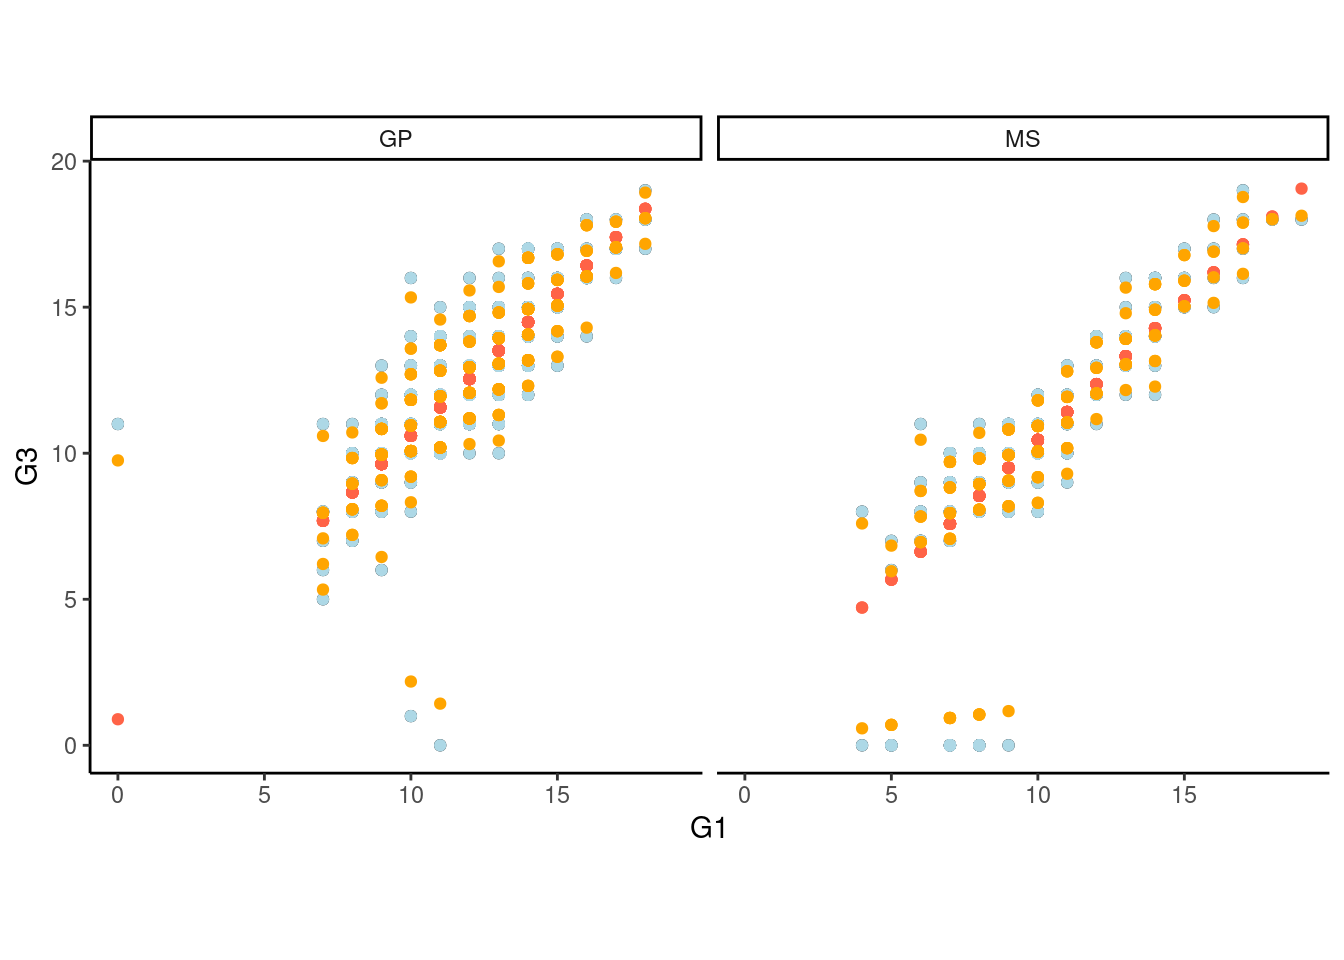
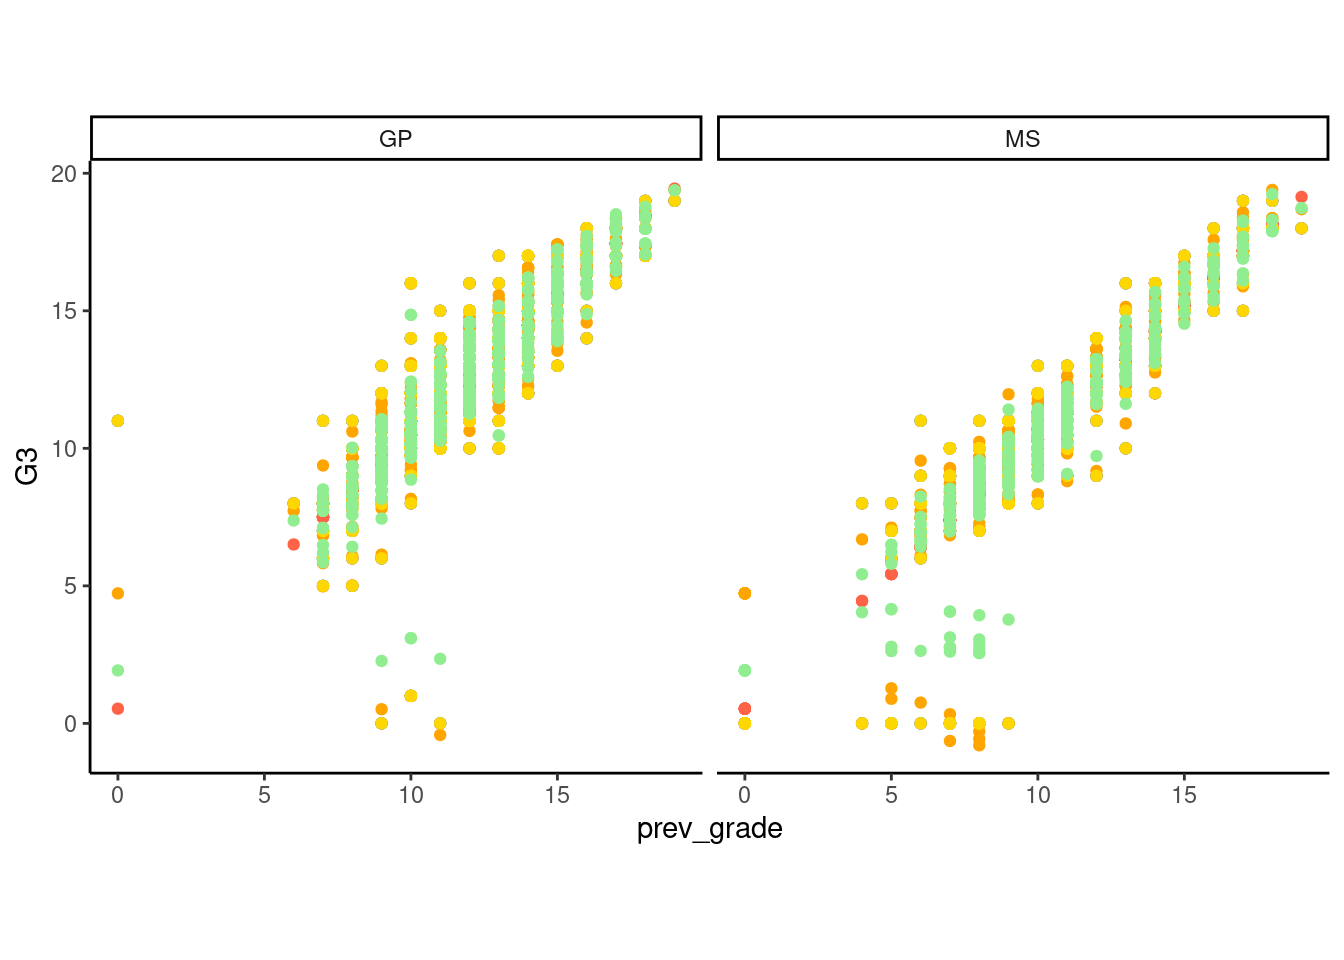
day 28

diff --git a/classes/day28_10252024.html b/classes/day28_10252024.html
@@ -135,11 +135,12 @@ pre > code.sourceCode > span > a:first-child::before { text-decoration: underlin
 </div>
 <div class="cell">
 <div class="sourceCode cell-code" id="cb3"><pre class="sourceCode r code-with-copy"><code class="sourceCode r"><span id="cb3-1"><a href="#cb3-1" aria-hidden="true" tabindex="-1"></a>dd <span class="ot">&lt;-</span> <span class="fu">read.csv</span>(<span class="st">"data/student-por.csv"</span>) <span class="sc">%&gt;%</span> </span>
-<span id="cb3-2"><a href="#cb3-2" aria-hidden="true" tabindex="-1"></a>  <span class="fu">rownames_to_column</span>(<span class="st">"student_ID"</span>)</span></code><button title="Copy to Clipboard" class="code-copy-button"><i class="bi"></i></button></pre></div>
+<span id="cb3-2"><a href="#cb3-2" aria-hidden="true" tabindex="-1"></a>  <span class="fu">rownames_to_column</span>(<span class="st">"student_ID"</span>) <span class="sc">%&gt;%</span> </span>
+<span id="cb3-3"><a href="#cb3-3" aria-hidden="true" tabindex="-1"></a>  <span class="fu">pivot_longer</span>(<span class="at">cols =</span> <span class="fu">c</span>(G1, G2), <span class="at">values_to =</span> <span class="st">"prev_grade"</span>, <span class="at">names_to =</span> <span class="st">"term"</span>)</span></code><button title="Copy to Clipboard" class="code-copy-button"><i class="bi"></i></button></pre></div>
 </div>
 <div class="cell">
 <div class="sourceCode cell-code" id="cb4"><pre class="sourceCode r code-with-copy"><code class="sourceCode r"><span id="cb4-1"><a href="#cb4-1" aria-hidden="true" tabindex="-1"></a>dd <span class="sc">%&gt;%</span> </span>
-<span id="cb4-2"><a href="#cb4-2" aria-hidden="true" tabindex="-1"></a>  <span class="fu">ggplot</span>(<span class="fu">aes</span>(G1, G3))<span class="sc">+</span></span>
+<span id="cb4-2"><a href="#cb4-2" aria-hidden="true" tabindex="-1"></a>  <span class="fu">ggplot</span>(<span class="fu">aes</span>(prev_grade, G3))<span class="sc">+</span></span>
 <span id="cb4-3"><a href="#cb4-3" aria-hidden="true" tabindex="-1"></a>  <span class="fu">geom_point</span>()<span class="sc">+</span></span>
 <span id="cb4-4"><a href="#cb4-4" aria-hidden="true" tabindex="-1"></a>  <span class="fu">facet_wrap</span>(<span class="sc">~</span>school)</span></code><button title="Copy to Clipboard" class="code-copy-button"><i class="bi"></i></button></pre></div>
 <div class="cell-output-display">
@@ -150,8 +151,8 @@ pre > code.sourceCode > span > a:first-child::before { text-decoration: underlin
 <div class="sourceCode cell-code" id="cb5"><pre class="sourceCode r code-with-copy"><code class="sourceCode r"><span id="cb5-1"><a href="#cb5-1" aria-hidden="true" tabindex="-1"></a><span class="fu">library</span>(nlme)</span></code><button title="Copy to Clipboard" class="code-copy-button"><i class="bi"></i></button></pre></div>
 </div>
 <div class="cell">
-<div class="sourceCode cell-code" id="cb6"><pre class="sourceCode r code-with-copy"><code class="sourceCode r"><span id="cb6-1"><a href="#cb6-1" aria-hidden="true" tabindex="-1"></a>m1 <span class="ot">&lt;-</span> <span class="fu">lm</span>(G3 <span class="sc">~</span> G1 <span class="sc">:</span> school, <span class="at">data =</span> dd)</span>
-<span id="cb6-2"><a href="#cb6-2" aria-hidden="true" tabindex="-1"></a>m2 <span class="ot">&lt;-</span> <span class="fu">lm</span>(G3 <span class="sc">~</span> G1 <span class="sc">:</span> school <span class="sc">+</span> student_ID , <span class="at">data =</span> dd)</span>
+<div class="sourceCode cell-code" id="cb6"><pre class="sourceCode r code-with-copy"><code class="sourceCode r"><span id="cb6-1"><a href="#cb6-1" aria-hidden="true" tabindex="-1"></a>m1 <span class="ot">&lt;-</span> <span class="fu">lm</span>(G3 <span class="sc">~</span> prev_grade <span class="sc">:</span> school, <span class="at">data =</span> dd)</span>
+<span id="cb6-2"><a href="#cb6-2" aria-hidden="true" tabindex="-1"></a>m2 <span class="ot">&lt;-</span> <span class="fu">lm</span>(G3 <span class="sc">~</span> prev_grade <span class="sc">:</span> school <span class="sc">+</span> student_ID , <span class="at">data =</span> dd)</span>
 <span id="cb6-3"><a href="#cb6-3" aria-hidden="true" tabindex="-1"></a><span class="fu">coef</span>(m2)[<span class="dv">1</span><span class="sc">:</span><span class="dv">10</span>]</span></code><button title="Copy to Clipboard" class="code-copy-button"><i class="bi"></i></button></pre></div>
 <div class="cell-output cell-output-stdout">
 <pre><code>  (Intercept)  student_ID10 student_ID100 student_ID101 student_ID102 
@@ -159,59 +160,62 @@ pre > code.sourceCode > span > a:first-child::before { text-decoration: underlin
 student_ID103 student_ID104 student_ID105 student_ID106 student_ID107 
             1            -1             5            -1            -1 </code></pre>
 </div>
-<div class="sourceCode cell-code" id="cb8"><pre class="sourceCode r code-with-copy"><code class="sourceCode r"><span id="cb8-1"><a href="#cb8-1" aria-hidden="true" tabindex="-1"></a>m3 <span class="ot">&lt;-</span> <span class="fu">lme</span>(G3 <span class="sc">~</span> G1 <span class="sc">:</span> school, <span class="at">random =</span> <span class="sc">~</span> <span class="dv">1</span><span class="sc">|</span>student_ID, <span class="at">data =</span> dd)</span>
-<span id="cb8-2"><a href="#cb8-2" aria-hidden="true" tabindex="-1"></a>m3</span></code><button title="Copy to Clipboard" class="code-copy-button"><i class="bi"></i></button></pre></div>
+<div class="sourceCode cell-code" id="cb8"><pre class="sourceCode r code-with-copy"><code class="sourceCode r"><span id="cb8-1"><a href="#cb8-1" aria-hidden="true" tabindex="-1"></a>m3 <span class="ot">&lt;-</span> <span class="fu">lm</span>(G3 <span class="sc">~</span> prev_grade <span class="sc">:</span> school <span class="sc">:</span> student_ID , <span class="at">data =</span> dd)</span>
+<span id="cb8-2"><a href="#cb8-2" aria-hidden="true" tabindex="-1"></a>m4 <span class="ot">&lt;-</span> <span class="fu">lme</span>(G3 <span class="sc">~</span> prev_grade <span class="sc">:</span> school, <span class="at">random =</span> <span class="sc">~</span> <span class="dv">1</span><span class="sc">|</span>student_ID, <span class="at">data =</span> dd)</span>
+<span id="cb8-3"><a href="#cb8-3" aria-hidden="true" tabindex="-1"></a>m4</span></code><button title="Copy to Clipboard" class="code-copy-button"><i class="bi"></i></button></pre></div>
 <div class="cell-output cell-output-stdout">
 <pre><code>Linear mixed-effects model fit by REML
   Data: dd 
-  Log-restricted-likelihood: -1315.996
-  Fixed: G3 ~ G1:school 
-(Intercept) G1:schoolGP G1:schoolMS 
-  0.8921246   0.9708224   0.9561604 
+  Log-restricted-likelihood: 19270.31
+  Fixed: G3 ~ prev_grade:school 
+        (Intercept) prev_grade:schoolGP prev_grade:schoolMS 
+       1.070155e+01        1.404539e-17        5.450246e-17 
 
 Random effects:
  Formula: ~1 | student_ID
-        (Intercept) Residual
-StdDev:    1.704493 0.639185
+        (Intercept)     Residual
+StdDev:    3.447576 1.367618e-15
 
-Number of Observations: 649
+Number of Observations: 1298
+Number of Groups: 649 </code></pre>
+</div>
+<div class="sourceCode cell-code" id="cb10"><pre class="sourceCode r code-with-copy"><code class="sourceCode r"><span id="cb10-1"><a href="#cb10-1" aria-hidden="true" tabindex="-1"></a>m5 <span class="ot">&lt;-</span> <span class="fu">lme</span>(G3 <span class="sc">~</span> prev_grade <span class="sc">:</span> school, <span class="at">random =</span> <span class="sc">~</span> <span class="dv">0</span><span class="sc">+</span>prev_grade<span class="sc">|</span>student_ID, <span class="at">data =</span> dd)</span>
+<span id="cb10-2"><a href="#cb10-2" aria-hidden="true" tabindex="-1"></a>m5</span></code><button title="Copy to Clipboard" class="code-copy-button"><i class="bi"></i></button></pre></div>
+<div class="cell-output cell-output-stdout">
+<pre><code>Linear mixed-effects model fit by REML
+  Data: dd 
+  Log-restricted-likelihood: -2422.346
+  Fixed: G3 ~ prev_grade:school 
+        (Intercept) prev_grade:schoolGP prev_grade:schoolMS 
+          1.9256970           0.8765583           0.8206894 
+
+Random effects:
+ Formula: ~0 + prev_grade | student_ID
+        prev_grade Residual
+StdDev:  0.1358343 1.009312
+
+Number of Observations: 1298
 Number of Groups: 649 </code></pre>
 </div>
 </div>
 <div class="cell">
-<div class="sourceCode cell-code" id="cb10"><pre class="sourceCode r code-with-copy"><code class="sourceCode r"><span id="cb10-1"><a href="#cb10-1" aria-hidden="true" tabindex="-1"></a>dd_predict <span class="ot">&lt;-</span> <span class="fu">expand.grid</span>(<span class="at">G1 =</span> <span class="fu">min</span>(dd<span class="sc">$</span>G1)<span class="sc">:</span><span class="fu">max</span>(dd<span class="sc">$</span>G1), </span>
-<span id="cb10-2"><a href="#cb10-2" aria-hidden="true" tabindex="-1"></a>                          <span class="at">school =</span> <span class="fu">unique</span>(dd<span class="sc">$</span>school), </span>
-<span id="cb10-3"><a href="#cb10-3" aria-hidden="true" tabindex="-1"></a>                          <span class="at">sex =</span> <span class="fu">unique</span>(dd<span class="sc">$</span>sex), </span>
-<span id="cb10-4"><a href="#cb10-4" aria-hidden="true" tabindex="-1"></a>                          <span class="at">student_ID =</span> <span class="fu">unique</span>(dd<span class="sc">$</span>student_ID))</span>
-<span id="cb10-5"><a href="#cb10-5" aria-hidden="true" tabindex="-1"></a>dd_predict<span class="sc">$</span>p1 <span class="ot">&lt;-</span> <span class="fu">predict</span>(m1, dd_predict)</span>
-<span id="cb10-6"><a href="#cb10-6" aria-hidden="true" tabindex="-1"></a>dd_predict<span class="sc">$</span>p2 <span class="ot">&lt;-</span> <span class="fu">predict</span>(m2, dd_predict)</span></code><button title="Copy to Clipboard" class="code-copy-button"><i class="bi"></i></button></pre></div>
-<div class="cell-output cell-output-stderr">
-<pre><code>Warning in predict.lm(m2, dd_predict): prediction from rank-deficient fit;
-attr(*, "non-estim") has doubtful cases</code></pre>
-</div>
-<div class="sourceCode cell-code" id="cb12"><pre class="sourceCode r code-with-copy"><code class="sourceCode r"><span id="cb12-1"><a href="#cb12-1" aria-hidden="true" tabindex="-1"></a>m2<span class="sc">$</span>rank <span class="co"># number of linearly independent rows </span></span></code><button title="Copy to Clipboard" class="code-copy-button"><i class="bi"></i></button></pre></div>
-<div class="cell-output cell-output-stdout">
-<pre><code>[1] 649</code></pre>
-</div>
-<div class="sourceCode cell-code" id="cb14"><pre class="sourceCode r code-with-copy"><code class="sourceCode r"><span id="cb14-1"><a href="#cb14-1" aria-hidden="true" tabindex="-1"></a><span class="fu">length</span>(<span class="fu">coef</span>(m2)) <span class="co"># number of parameters</span></span></code><button title="Copy to Clipboard" class="code-copy-button"><i class="bi"></i></button></pre></div>
-<div class="cell-output cell-output-stdout">
-<pre><code>[1] 651</code></pre>
-</div>
-<div class="sourceCode cell-code" id="cb16"><pre class="sourceCode r code-with-copy"><code class="sourceCode r"><span id="cb16-1"><a href="#cb16-1" aria-hidden="true" tabindex="-1"></a>dd_predict<span class="sc">$</span>p3 <span class="ot">&lt;-</span> <span class="fu">predict</span>(m3, dd_predict)</span></code><button title="Copy to Clipboard" class="code-copy-button"><i class="bi"></i></button></pre></div>
-</div>
-<div class="cell">
-<div class="sourceCode cell-code" id="cb17"><pre class="sourceCode r code-with-copy"><code class="sourceCode r"><span id="cb17-1"><a href="#cb17-1" aria-hidden="true" tabindex="-1"></a>dd<span class="sc">$</span>p1 <span class="ot">&lt;-</span> <span class="fu">predict</span>(m1, dd)</span>
-<span id="cb17-2"><a href="#cb17-2" aria-hidden="true" tabindex="-1"></a>dd<span class="sc">$</span>p2 <span class="ot">&lt;-</span> <span class="fu">predict</span>(m2, dd)</span>
-<span id="cb17-3"><a href="#cb17-3" aria-hidden="true" tabindex="-1"></a>dd<span class="sc">$</span>p3 <span class="ot">&lt;-</span> <span class="fu">predict</span>(m3, dd)</span>
-<span id="cb17-4"><a href="#cb17-4" aria-hidden="true" tabindex="-1"></a>dd <span class="sc">%&gt;%</span></span>
-<span id="cb17-5"><a href="#cb17-5" aria-hidden="true" tabindex="-1"></a>  <span class="fu">ggplot</span>(<span class="fu">aes</span>())<span class="sc">+</span></span>
-<span id="cb17-6"><a href="#cb17-6" aria-hidden="true" tabindex="-1"></a>  <span class="fu">facet_wrap</span>(<span class="sc">~</span>school)<span class="sc">+</span></span>
-<span id="cb17-7"><a href="#cb17-7" aria-hidden="true" tabindex="-1"></a>  <span class="fu">geom_point</span>(<span class="fu">aes</span>(<span class="at">x =</span>G1, <span class="at">y=</span>G3))<span class="sc">+</span></span>
-<span id="cb17-8"><a href="#cb17-8" aria-hidden="true" tabindex="-1"></a>  <span class="fu">geom_point</span>(<span class="fu">aes</span>(<span class="at">x=</span>G1, <span class="at">y=</span>p1), <span class="at">color =</span> <span class="st">'tomato'</span>)<span class="sc">+</span></span>
-<span id="cb17-9"><a href="#cb17-9" aria-hidden="true" tabindex="-1"></a>  <span class="fu">geom_point</span>(<span class="fu">aes</span>(<span class="at">x=</span>G1, <span class="at">y=</span>p2, <span class="at">group =</span> school), <span class="at">color =</span> <span class="st">'lightblue'</span>)<span class="sc">+</span></span>
-<span id="cb17-10"><a href="#cb17-10" aria-hidden="true" tabindex="-1"></a>  <span class="fu">geom_point</span>(<span class="fu">aes</span>(<span class="at">x=</span>G1, <span class="at">y=</span>p3, <span class="at">group =</span> school), <span class="at">color =</span> <span class="st">'orange'</span>)</span></code><button title="Copy to Clipboard" class="code-copy-button"><i class="bi"></i></button></pre></div>
+<div class="sourceCode cell-code" id="cb12"><pre class="sourceCode r code-with-copy"><code class="sourceCode r"><span id="cb12-1"><a href="#cb12-1" aria-hidden="true" tabindex="-1"></a>dd<span class="sc">$</span>p1 <span class="ot">&lt;-</span> <span class="fu">predict</span>(m1, dd)</span>
+<span id="cb12-2"><a href="#cb12-2" aria-hidden="true" tabindex="-1"></a>dd<span class="sc">$</span>p2 <span class="ot">&lt;-</span> <span class="fu">predict</span>(m2, dd)</span>
+<span id="cb12-3"><a href="#cb12-3" aria-hidden="true" tabindex="-1"></a>dd<span class="sc">$</span>p3 <span class="ot">&lt;-</span> <span class="fu">predict</span>(m3, dd)</span>
+<span id="cb12-4"><a href="#cb12-4" aria-hidden="true" tabindex="-1"></a>dd<span class="sc">$</span>p4 <span class="ot">&lt;-</span> <span class="fu">predict</span>(m4, dd)</span>
+<span id="cb12-5"><a href="#cb12-5" aria-hidden="true" tabindex="-1"></a>dd<span class="sc">$</span>p5 <span class="ot">&lt;-</span> <span class="fu">predict</span>(m5, dd)</span>
+<span id="cb12-6"><a href="#cb12-6" aria-hidden="true" tabindex="-1"></a></span>
+<span id="cb12-7"><a href="#cb12-7" aria-hidden="true" tabindex="-1"></a>dd <span class="sc">%&gt;%</span></span>
+<span id="cb12-8"><a href="#cb12-8" aria-hidden="true" tabindex="-1"></a>  <span class="fu">ggplot</span>(<span class="fu">aes</span>())<span class="sc">+</span></span>
+<span id="cb12-9"><a href="#cb12-9" aria-hidden="true" tabindex="-1"></a>  <span class="fu">facet_wrap</span>(<span class="sc">~</span>school)<span class="sc">+</span></span>
+<span id="cb12-10"><a href="#cb12-10" aria-hidden="true" tabindex="-1"></a>  <span class="fu">geom_point</span>(<span class="fu">aes</span>(<span class="at">x =</span>prev_grade, <span class="at">y=</span>G3))<span class="sc">+</span></span>
+<span id="cb12-11"><a href="#cb12-11" aria-hidden="true" tabindex="-1"></a>  <span class="fu">geom_point</span>(<span class="fu">aes</span>(<span class="at">x=</span>prev_grade, <span class="at">y=</span>p1), <span class="at">color =</span> <span class="st">'tomato'</span>)<span class="sc">+</span></span>
+<span id="cb12-12"><a href="#cb12-12" aria-hidden="true" tabindex="-1"></a>  <span class="fu">geom_point</span>(<span class="fu">aes</span>(<span class="at">x=</span>prev_grade, <span class="at">y=</span>p2, <span class="at">group =</span> school), <span class="at">color =</span> <span class="st">'lightblue'</span>)<span class="sc">+</span></span>
+<span id="cb12-13"><a href="#cb12-13" aria-hidden="true" tabindex="-1"></a>  <span class="fu">geom_point</span>(<span class="fu">aes</span>(<span class="at">x=</span>prev_grade, <span class="at">y=</span>p3, <span class="at">group =</span> school), <span class="at">color =</span> <span class="st">'orange'</span>)<span class="sc">+</span></span>
+<span id="cb12-14"><a href="#cb12-14" aria-hidden="true" tabindex="-1"></a>  <span class="fu">geom_point</span>(<span class="fu">aes</span>(<span class="at">x=</span>prev_grade, <span class="at">y=</span>p4, <span class="at">group =</span> school), <span class="at">color =</span> <span class="st">'gold'</span>)<span class="sc">+</span></span>
+<span id="cb12-15"><a href="#cb12-15" aria-hidden="true" tabindex="-1"></a>  <span class="fu">geom_point</span>(<span class="fu">aes</span>(<span class="at">x=</span>prev_grade, <span class="at">y=</span>p5, <span class="at">group =</span> school), <span class="at">color =</span> <span class="st">'lightgreen'</span>)</span></code><button title="Copy to Clipboard" class="code-copy-button"><i class="bi"></i></button></pre></div>
 <div class="cell-output-display">
-<p><img src="day28_10252024_files/figure-html/unnamed-chunk-8-1.png" class="img-fluid" width="672"></p>
+<p><img src="day28_10252024_files/figure-html/unnamed-chunk-7-1.png" class="img-fluid" width="672"></p>
 </div>
 </div>
 </section>
